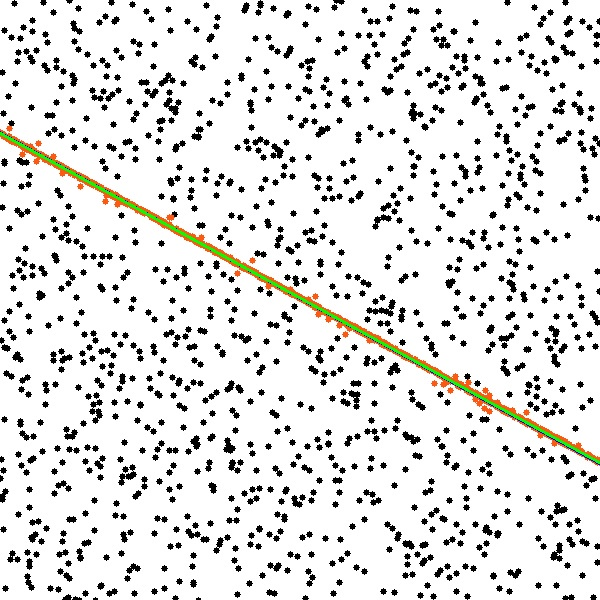
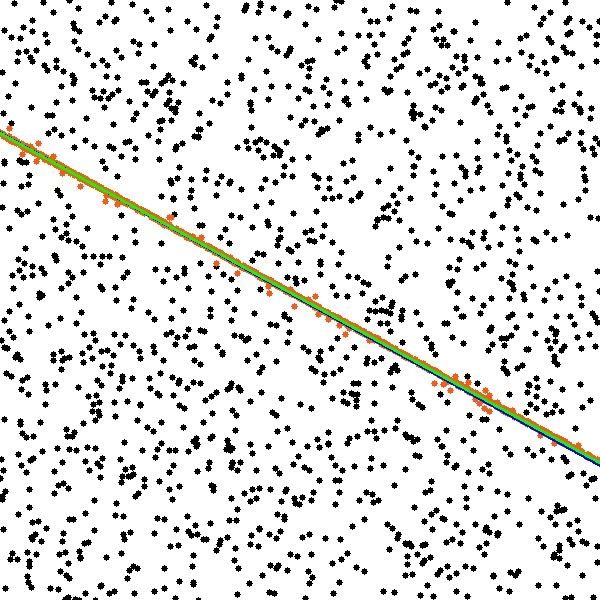
fixed points size

diff --git a/Tests/testHomographyFitting.cpp b/Tests/testHomographyFitting.cpp
@@ -19,6 +19,8 @@
 #include "../Usac/Helper/Drawing.h"
 #include "../Usac/Helper/Logging.h"
 
+#include "../Generator/generator.h"
+
 void test (cv::InputArray points, Model * const model, Sampler * const sampler, std::vector<std::string> images_filename, std::string points_filename);
 
 void Tests::testHomographyFitting() {
@@ -34,7 +36,7 @@ void Tests::testHomographyFitting() {
     points.push_back(points1);
     points.push_back(points2);
 
-    Model *homography_model = new Model (40, 4, 0.99, 0, "homography");
+    Model *homography_model = new Model (15, 4, 0.99, 0, "homography");
     Sampler *uniform_sampler = new UniformSampler;
     uniform_sampler->setSampleSize(homography_model->sample_number);
     uniform_sampler->setPointsSize(points1.rows);
@@ -43,6 +45,7 @@ void Tests::testHomographyFitting() {
 }
 
 void test (cv::InputArray points, Model * const model, Sampler * const sampler, std::vector<std::string> images_filename, std::string points_filename) {
+
     Estimator * homograpy_estimator = new HomographyEstimator;;
     Drawing drawing;
     Logging logResult;

diff --git a/Usac/Ransac/Ransac.cpp b/Usac/Ransac/Ransac.cpp
@@ -1,22 +1,23 @@
 #include "Ransac.h"
 
 
-//int getPointsSize (cv::InputArray points) {
-////    std::cout << points.getMat(0).total() << '\n';
-//    points.size()
-//    return points.size() == 1 ? points.size().width : points.size(0).width;
-//}
+int getPointsSize (cv::InputArray points) {
+//    std::cout << points.getMat(0).total() << '\n';
+    if (points.isVector()) {
+        return points.size().width;
+    } else {
+        return points.getMat(0).rows;
+    }
+}
 
 void Ransac::run(cv::InputArray input_points, Estimator* const estimator) {
     assert(!input_points.empty());
 
     auto begin_time = std::chrono::steady_clock::now();
 
+    int points_size = getPointsSize(input_points);
 
-    int points_size = input_points.getMat(0).rows;
-//    int points_size = input_points.size().width;
-
-//    std::cout << "Points size " << points_size << '\n';
+    std::cout << "Points size " << points_size << '\n';
 
     // initialize estimator and termination criteria
     estimator->setPoints(input_points);

diff --git a/Usac/Helper/Drawing.h b/Usac/Helper/Drawing.h
@@ -260,7 +260,7 @@ public:
         cv::vconcat(panorama, panorama_gt, panorama);
         cv::vconcat(panorama, panorama_opencv, panorama);
 
-        cv::resize(panorama, panorama, cv::Size ( imgs.cols, 0.8 * imgs.rows));
+        cv::resize(panorama, panorama, cv::Size ( imgs.cols, 1 * imgs.rows));
         cv::imshow("panorama", panorama);
         cv::imshow("imgs ", imgs);
 

diff --git a/Usac/Helper/DrawPanorama.cpp b/Usac/Helper/DrawPanorama.cpp
@@ -6,5 +6,5 @@ void Drawing::drawPanorama (const std::vector<cv::Mat>& imgs, cv::Mat &panorama,
     cv::Mat half(panorama, cv::Rect(0,0,imgs[0].cols,imgs[0].rows));
     imgs[0].copyTo(half);
 
-    cv::resize(panorama, panorama, cv::Size (0.75 * panorama.cols, panorama.rows));
+    cv::resize(panorama, panorama, cv::Size (075 * panorama.cols, panorama.rows));
 }

diff --git a/Usac/Estimator/HomographyEstimator.h b/Usac/Estimator/HomographyEstimator.h
@@ -60,11 +60,6 @@ public:
 
         NormalizedDLT(points1, points2, H);
 
-        float norm = sqrt(H.at<float>(0,0)*H.at<float>(0,0) +
-                           H.at<float>(1,0)*H.at<float>(1,0) +
-                           H.at<float>(2,0)*H.at<float>(2,0));
-        H /= norm;
-
         this->H = H;
         this->H_inv = H.inv();
 
